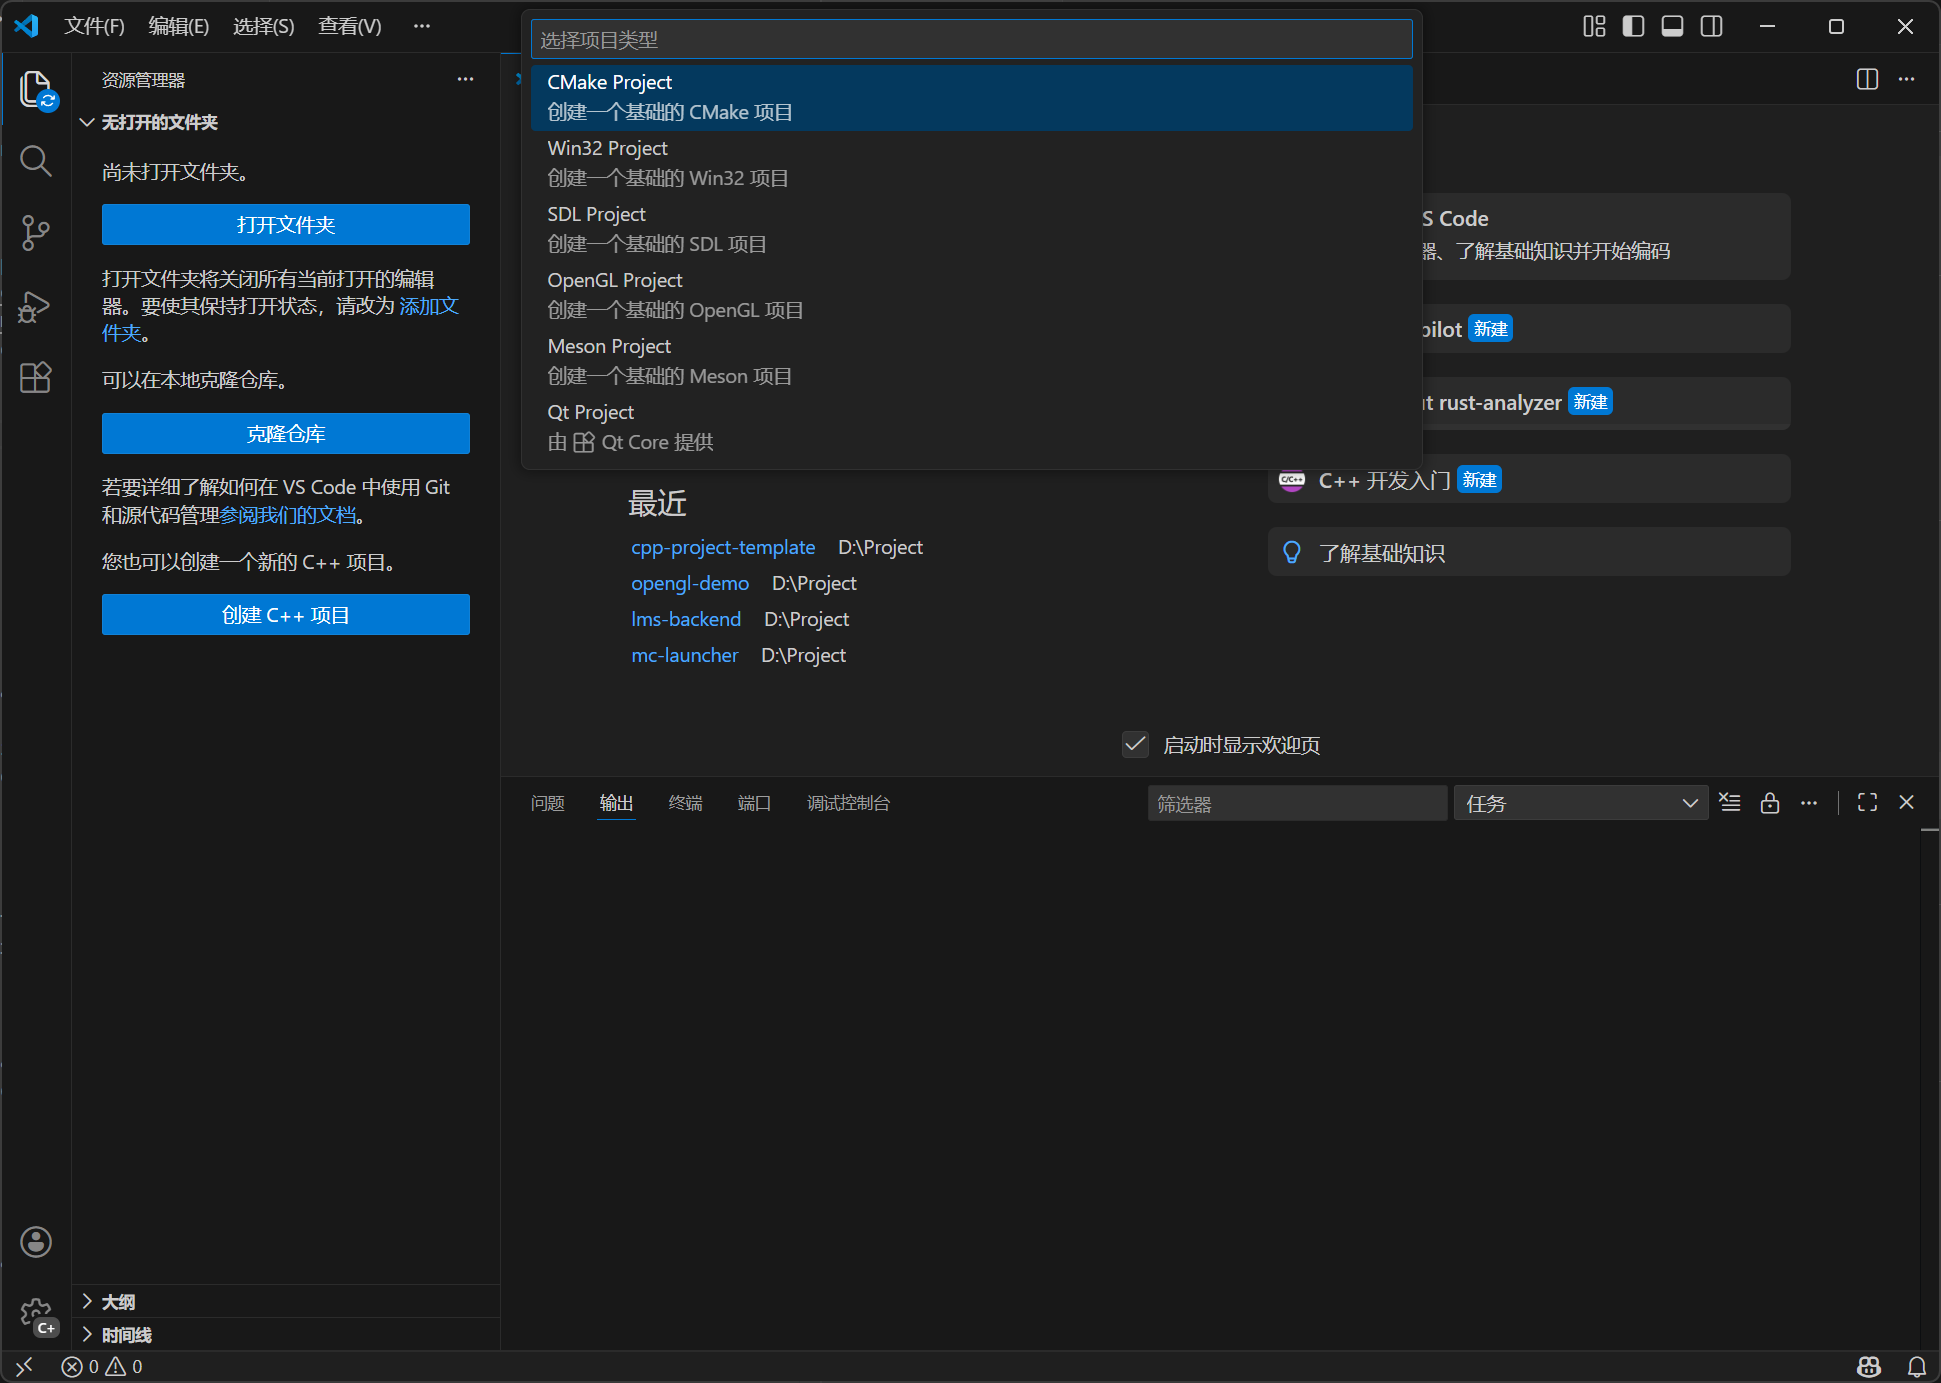
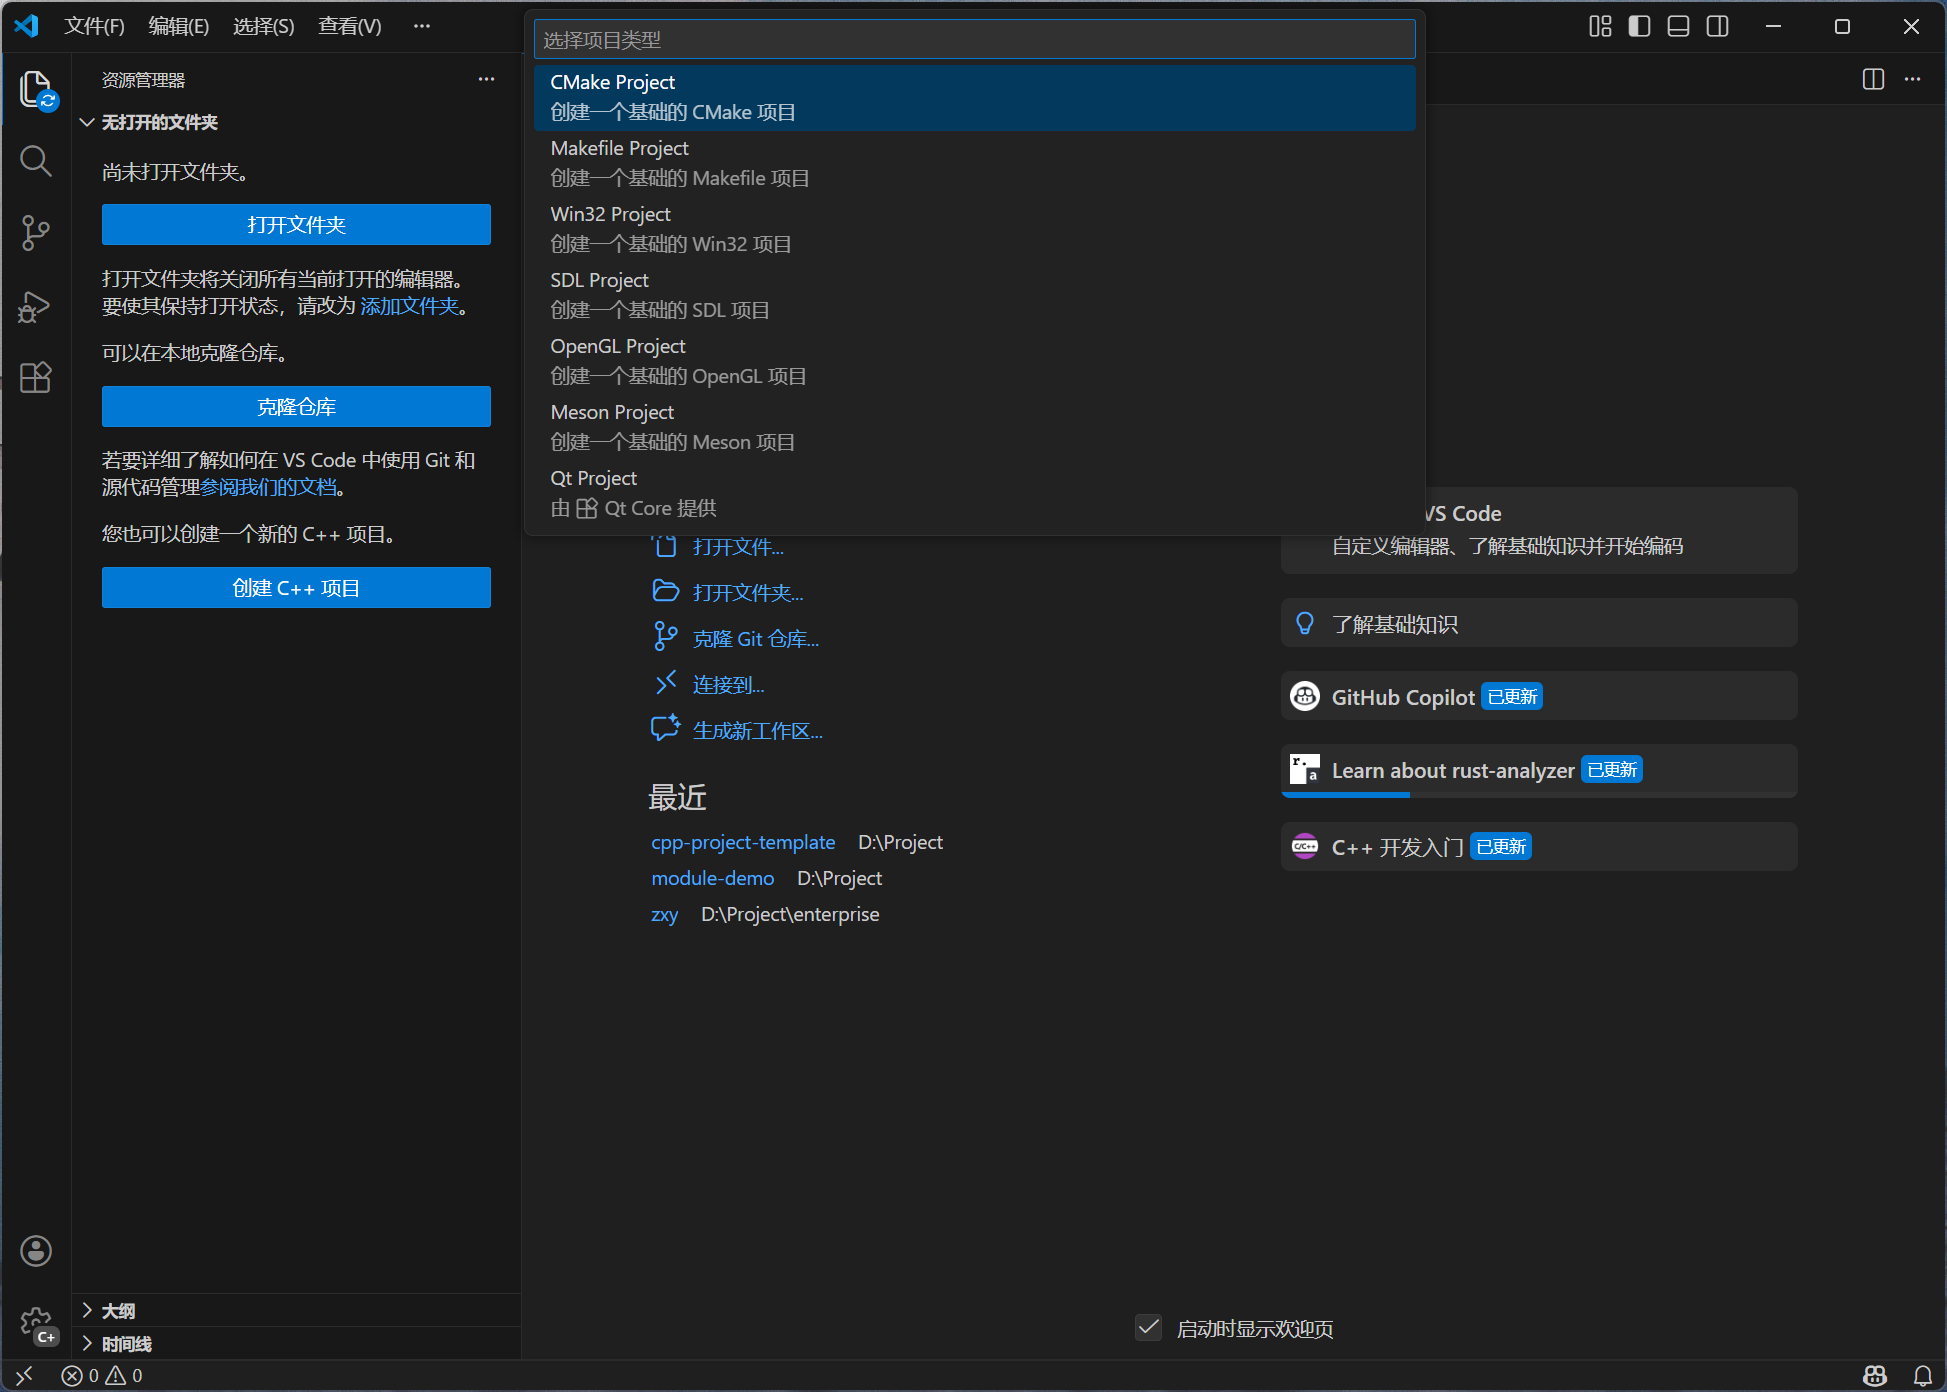
update README.md

diff --git a/README.md b/README.md
@@ -8,7 +8,7 @@ A lightweight extension to provide additional C++ project features. It works wit
 
 ### Create C++ Projects
 
-You can create CMake, Win32 (Windows only), SDL, Meson, and Qt (requires [Qt Core](https://marketplace.visualstudio.com/items?itemName=TheQtCompany.qt-core)) projects.
+You can create CMake, Makefile, Win32 (Windows only), SDL, Meson, and Qt (requires [Qt Core](https://marketplace.visualstudio.com/items?itemName=TheQtCompany.qt-core)) projects.
 
 ![create project](https://raw.githubusercontent.com/wtcpython/cpp-project-template/main/images/create-project.png)
 
@@ -17,6 +17,8 @@ You can create CMake, Win32 (Windows only), SDL, Meson, and Qt (requires [Qt Cor
 You can create C, C++, CUDA projects in `CMake Project`.
 
 ![create cmake project](https://raw.githubusercontent.com/wtcpython/cpp-project-template/main/images/create-cmake-project.png)
+
+For C++23 and later, you may choose to enable the modern module feature, which uses `import std;` in place of `#include <iostream>`.
 
 ### Flexible choice of C/C++ language standards
 
